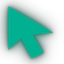
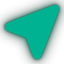
光标改用用户提供的 SVG 指针路径，纯薄荷绿发光

diff --git a/src/styles/globals.css b/src/styles/globals.css
@@ -443,15 +443,15 @@ body {
 .chart-grid line { stroke: var(--separator); stroke-width: 1; }
 
 /* ============================================================
-   自定义鼠标光标：绿色发光箭头（与平台 Logo 薄荷绿同色系）
-   - 热区 (8 6) 对准箭头尖端，避免点击位置偏移
+   自定义鼠标光标：绿色发光指针（用户提供的 SVG 指针路径，薄荷绿 + 柔光）
+   - 热区 (8 23) 对准指针尖端，避免点击位置偏移
    - 全站默认指针 + pointer（可点击）统一用该图形
    - 文本输入保留系统 I-beam，保证可用性
    ============================================================ */
-@supports (cursor: url("/cursor/cursor.png") 8 6, auto) {
+@supports (cursor: url("/cursor/cursor.png") 8 23, auto) {
   :root {
-    --brand-cursor: url("/cursor/cursor.png") 8 6, auto;
-    --brand-cursor-pointer: url("/cursor/cursor.png") 8 6, pointer;
+    --brand-cursor: url("/cursor/cursor.png") 8 23, auto;
+    --brand-cursor-pointer: url("/cursor/cursor.png") 8 23, pointer;
   }
 
   html, body {

diff --git a/DESIGN-SYSTEM.md b/DESIGN-SYSTEM.md
@@ -17,7 +17,7 @@
 | 气质 | 现代、灵动、霓虹感、企业级可信赖 |
 | Logo | 六边形轮廓 + 内部钻石形，白色描边，位于紫→绿渐变圆角方块上 |
 | 站点图标（favicon） | **必须与平台 Logo 一致**：紫→深紫(42%)→绿 `135deg` 渐变圆角方块 + 白色六边形轮廓 + 白色钻石形；禁止使用框架默认图标 |
-| 鼠标光标 | **全站使用绿色发光箭头**（`public/cursor/cursor.png`）：薄荷绿 `#00B090` 箭头 + 青绿柔光、无白边；热区 `(8 6)` 对准尖端；输入框保留系统 `text` I-beam |
+| 鼠标光标 | **全站使用绿色发光指针**（`public/cursor/cursor.png`）：用户提供的标准指针 path，薄荷绿 `#00B292` + 青绿柔光、无白边；热区 `(8 23)` 对准尖端；输入框保留系统 `text` I-beam |
 
 **favicon 实现规范**：
 
@@ -32,9 +32,9 @@
 
 **自定义光标实现规范**：
 
-- 资源：`public/cursor/cursor.png`（64×64，`@supports` + fallback 到 `auto`/`pointer`）。图形为经典鼠标箭头，尖端左上，纯薄荷绿填充 + 青绿三层高斯柔光，**无白色描边**（白描边只属于浏览器插件的贴纸，非平台光标）。
-- 色值：填充 `#00B090`（对应截图取样，与 `--brand-green-deep` 薄荷绿同色系），柔光 `rgba(0,205,165,0.75)`。
-- 热区：`url(...) 8 6` 对准箭头尖端；不写热区会导致点击位置偏移。
+- 资源：`public/cursor/cursor.png`（64×64，`@supports` + fallback 到 `auto`/`pointer`）。图形来自用户提供的标准鼠标指针 SVG path（IconFont 风格圆角三角指针，尖端指向左上），纯薄荷绿填充 + 青绿三层高斯柔光，**无白色描边**（白描边只属于浏览器插件的贴纸，非平台光标）。源文件：`~/Downloads/指针.svg`。
+- 色值：填充 `#00B292`（与 `--brand-green-deep` 薄荷绿同色系），柔光 `rgba(0,235,180,0.9)`。
+- 热区：`url(...) 8 23` 对准指针尖端（左侧尖角）；不写热区会导致点击位置偏移。注意：更换图形后必须重算热区坐标，沿用旧值会错位。
 - 应用范围（`globals.css` 末尾 `@supports` 块）：`html, body` 默认指针 + `button, a, [role=button], .cursor-pointer` 全部替换；**文本输入框/textarea/contenteditable 保留 `text`**，禁止把 I-beam 也替换掉（可用性）。
 - 反模式：不要用白边箭头、不要用系统手型作 fallback 之外的混搭、不要忘记热区坐标。
 
